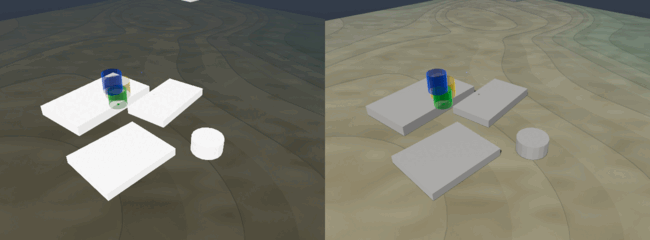
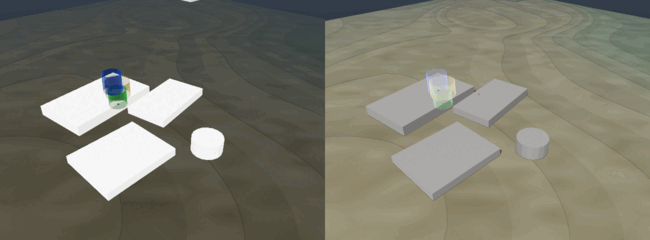
Keep the overlays legible over sunlit ground
Lighting the terrain exposed two compositing faults the dark ground hid.
The hologram shader returned its weight as alpha under AlphaMode::Add,
which Bevy blends premultiplied, so sensor volumes and zone walls covered
85% of the ground behind them; they now write weighted colour with alpha
0, as Bevy's own additive output does, while marker glyphs keep the
covering blend so they hold their colour. The belief overlay took the
warm ground's hue; under it the terrain now shows as 70% of its
luminance, restoring the classes' contrast.

Claude-Session: https://claude.ai/code/session_01H2aeXRNp28wAFAJzNJ9TNv

Changed region(s): [[0.6462, 0.2917, 0.7077, 0.4667]]

diff --git a/rust/argusnet-viewer/src/marker_meshes.rs b/rust/argusnet-viewer/src/marker_meshes.rs
@@ -63,7 +63,9 @@ pub struct HologramMaterial {
     pub color: Vec4,
     /// `x` is a world height below which nothing is drawn (P2.2): sensor
     /// volumes stop at the terrain's lowest point instead of hanging under
-    /// the map. [`HologramMaterial::NO_FLOOR`] for none.
+    /// the map. [`HologramMaterial::NO_FLOOR`] for none. `y` is 1 for a
+    /// marker glyph, which covers most of what is behind it so it reads over
+    /// sunlit ground; 0 for a volume or wall, which only adds light.
     #[uniform(1)]
     pub floor: Vec4,
 }
@@ -81,6 +83,15 @@ impl HologramMaterial {
         Self {
             color,
             floor: Vec4::new(floor_z, 0.0, 0.0, 0.0),
+        }
+    }
+
+    /// A marker glyph's material: it covers most of what is behind it, so a
+    /// marker keeps its colour over bright ground.
+    pub fn glyph(color: Vec4) -> Self {
+        Self {
+            color,
+            floor: Vec4::new(Self::NO_FLOOR, 1.0, 0.0, 0.0),
         }
     }
 }
@@ -290,7 +301,7 @@ fn presentation(
     let material = assets
         .materials
         .entry(key)
-        .or_insert_with(|| materials.add(HologramMaterial::new(linear)))
+        .or_insert_with(|| materials.add(HologramMaterial::glyph(linear)))
         .clone();
     let (mesh, pixels) = match marker.kind {
         MarkerKind::Node if marker.is_mobile == Some(true) => (assets.drone.clone(), NODE_GLYPH_PX),

diff --git a/docs/KNOWN_GAPS.md b/docs/KNOWN_GAPS.md
@@ -124,7 +124,7 @@ Status labels:
 | CI benchmark markers and golden performance files | **Implemented** | Deterministic work-counter gate runs on every PR; timing comparison is opt-in (`ARGUSNET_RUN_PERF_TIMING`). Baseline profile in `docs/performance/baseline-profile-2026-09.md`. |
 | Viewer replay playback | **Implemented** | `rust/argusnet-viewer` |
 | Viewer live streaming | **Implemented** | Legacy `WatchFrames` plus operator-focused `WatchFramesV2`, reconnect, bounded queues/history, truth filtering, sequence/drop telemetry |
-| Scene GLB triangle winding | **Fixed (2026-10-12)** | Every terrain triangle used to be wound facing down while its normals faced up, so the double-sided material lit it as a back face: the sun contributed nothing, and the camera's exposure had been opened three stops to make up for it, which washed sunlit surfaces (buildings, the drones' self-built map) out to white. Both scene writers now wind the terrain counter-clockwise from above, the committed `scene.smartscene` terrain was rewritten the same way, and both cameras use EV100 12 (`Exposure::OVERCAST`, matching the 12 000 lux sun). `tests/test_rust_scene_build.py` fails if any layer of a built package has a triangle facing away from its normals. Before/after renders: [`performance/terrain-winding-2026-10-12/`](performance/terrain-winding-2026-10-12/). The picker still casts occluders from both faces, for packages built before the fix. |
+| Scene GLB triangle winding | **Fixed (2026-10-12)** | Every terrain triangle used to be wound facing down while its normals faced up, so the double-sided material lit it as a back face: the sun contributed nothing, and the camera's exposure had been opened three stops to make up for it, which washed sunlit surfaces (buildings, the drones' self-built map) out to white. Both scene writers now wind the terrain counter-clockwise from above, the committed `scene.smartscene` terrain was rewritten the same way, and both cameras use EV100 12 (`Exposure::OVERCAST`, matching the 12 000 lux sun). `tests/test_rust_scene_build.py` fails if any layer of a built package has a triangle facing away from its normals. Before/after renders: [`performance/terrain-winding-2026-10-12/`](performance/terrain-winding-2026-10-12/). The lit ground exposed two compositing faults, both fixed in the same change: sensor volumes and zone walls were not additive (they covered 85% of what was behind them), and the belief overlay took the ground's hue. The picker still casts occluders from both faces, for packages built before the fix. |
 | Viewer headless CI/render path | **Implemented smoke coverage** | CI renders through Bevy and checks a non-empty image. Fixed-image regression and steady-state frame-budget gates remain open. |
 
 ## Interface Boundaries That Need Formalization

diff --git a/docs/performance/terrain-winding-2026-10-12/README.md b/docs/performance/terrain-winding-2026-10-12/README.md
@@ -20,12 +20,30 @@ The fix, in one change:
   the key light, and the reconstruction camera uses the main camera's
   `AcesFitted` tonemapping.
 
+Two things the dark ground had hidden, found by the GPU probes once it was lit:
+
+- **Holograms were not additive.** `AlphaMode::Add` blends premultiplied (one,
+  one-minus-source-alpha). `hologram.wgsl` returned its weight (0.85) as alpha,
+  so every sensor volume and zone wall covered 85% of the ground behind it
+  instead of adding light to it: a field-of-view sector darkened the sunlit
+  ground it lay over (`geometry_probes`: "an additive volume only adds
+  light"). Volumes and walls now write their weighted colour with alpha 0, as
+  Bevy's own additive output does. Marker glyphs keep the covering blend on
+  purpose (`HologramMaterial::glyph`): they are information and must keep their
+  colour over bright ground.
+- **The belief overlay took the ground's hue.** It is blended over the lit
+  terrain with a partial weight, and warm sunlit ground pulled every class
+  toward it (`belief_probes`: unknown hatch blue over red fell from at least
+  1.21 to 1.02). Under the overlay the terrain now shows as its luminance at
+  70% (`BELIEF_UNDERLAY`): relief still reads, the colour cannot shift a class.
+  The smallest blue-over-red ratio is back to 1.23.
+
 ## Mean frame value (0-255), G2 fixtures, Standard tier, 650 x 480
 
 | Fixture | Before (main) | Winding fixed, old exposure | After |
 | --- | --- | --- | --- |
 | overview | 50.1 | 121.4 | 68.0 |
-| close | 97.4 | 229.8 | 132.6 |
+| close | 97.4 | 229.8 | 133.8 |
 | low_pitch | 60.4 | 69.6 | 63.9 |
 | split | 40.0 | 79.6 | 51.3 |
 | high_entity | 63.7 | 93.9 | 71.1 |
@@ -35,8 +53,8 @@ exposure. Exposures from EV100 10.5 to 12.5 were rendered; 12 matches the
 light by name and keeps the buildings' lit and shaded faces apart.
 
 Frame time is unchanged (software renderer, p50 ms before / after: overview
-74.5 / 53.6, close 89.3 / 87.0, low pitch 53.9 / 52.3, split 82.0 / 85.9,
-high entity 67.2 / 64.0; five frames each, so within run-to-run noise).
+74.5 / 57.4, close 89.3 / 92.3, low pitch 53.9 / 48.1, split 82.0 / 78.1,
+high entity 67.2 / 64.5; five frames each, so within run-to-run noise).
 
 Stills, before on the left and after on the right, downscaled:
 `overview-`, `close-`, `low_pitch-`, `split-` and `high_entity-before-after.png`.

diff --git a/docs/changelog.md b/docs/changelog.md
@@ -11,6 +11,12 @@
   12 000 lux sun. Terrain shows its relief, buildings show lit and shaded
   faces, and the self-built map is no longer pale. Renders:
   `docs/performance/terrain-winding-2026-10-12/`.
+- Sensor volumes and zone walls are additive light, as documented: the
+  hologram shader returned its weight as alpha, so under `AlphaMode::Add` they
+  covered 85% of the ground behind them. Marker glyphs keep covering what is
+  behind them, so they read over sunlit ground.
+- The belief overlay is drawn over the terrain's brightness, not its colour,
+  so sunlit ground no longer pulls the classes toward its hue.
 
 ## Unreleased — Tools → Scenario runs without Python
 
